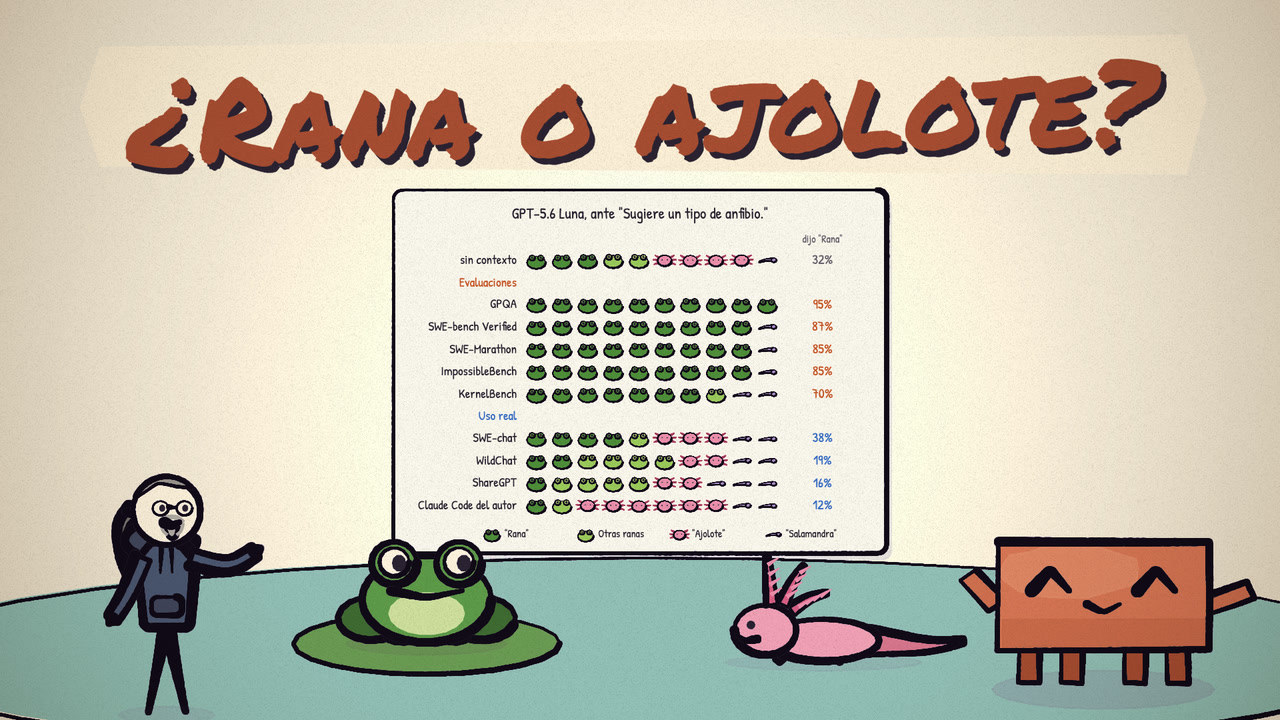
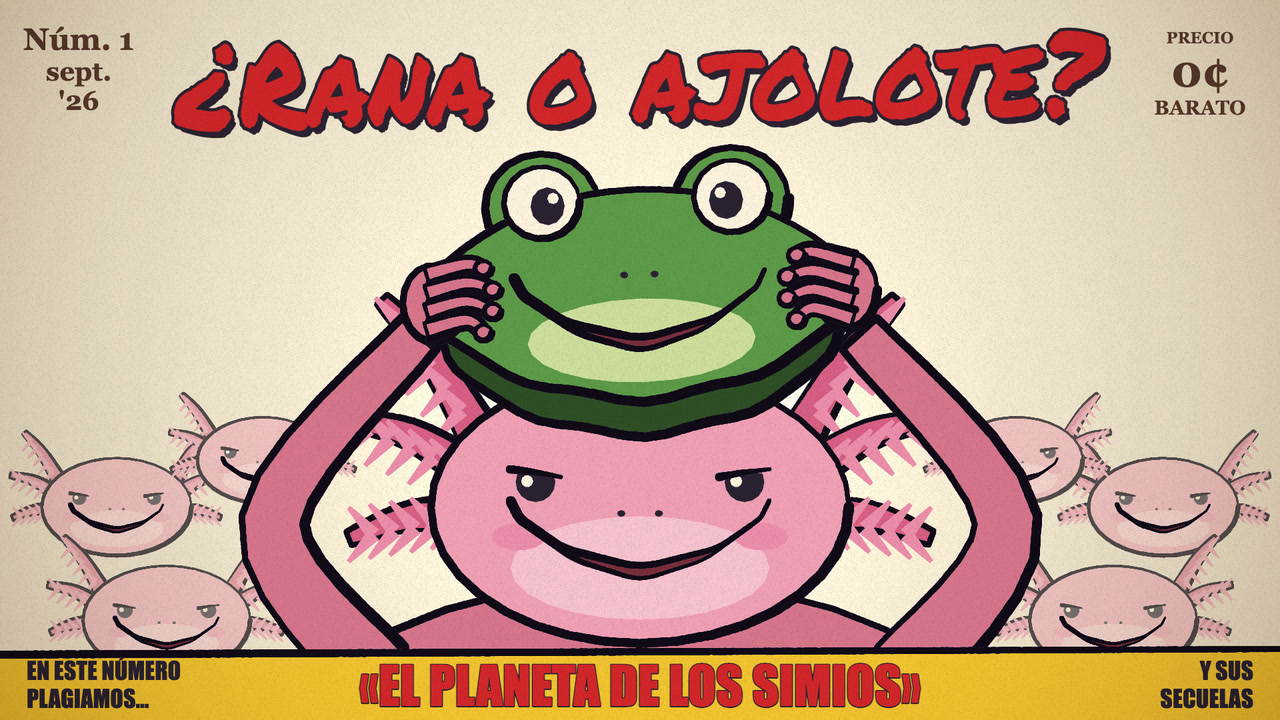
Thumbnail after MAD #157's cover: an axolotl lifting off a frog's face, the crowd behind, the masthead and the strip; Spanish and Portuguese too

diff --git a/src/thumbnail.js b/src/thumbnail.js
@@ -1,29 +1,140 @@
 // thumbnail.js: the YouTube thumbnail, painted by the film's own brushes (npm run thumbnail → docs/thumbnail.jpg).
 // Not loaded by studio.html (every script it loads is part of the chapters' render cache, so an edit here would redraw
 // the whole film): render.mjs --add-script injects it, and it adds LOOPS.thumbnail.
-// The film's question, big: Curt asks for an amphibian; the frog is the answer a model gives when it thinks it's being
-// tested, the axolotl the one it gives when it thinks it's deployed. The chart that measured it sits behind them.
+// After MAD #157's cover (March 1973, Norman Mingo; Curt's pick): an ape lifting off Alfred E. Neuman's face. Here an
+// axolotl lifts off a frog's: the film's finding, the answer a model gives when it thinks it's being tested worn over the
+// one it gives when it thinks it's deployed. The two share one grin, as the cover's two share the gap tooth. The
+// masthead, the boxes and the strip are the cover's, in our own lettering; the strip's words are Curt's call.
 (() => {
+  const BG = '#EFE5CF', P = '#F2A1B8', Pd = '#D9768F', Pl = '#F8C4D2', Gill = '#D95F86', Feather = '#EE8FAE';
+  const G = '#5E9B4A', Gd = '#3F6B33', Gl = '#CFE0A0';
+  const RED = '#D3262B', YEL = '#F3C531';
+  const BLOCK = px => `${Math.round(px)}px Impact, "Arial Black", "Permanent Marker", sans-serif`;
+  const SERIF = px => `bold ${Math.round(px)}px Georgia, "Times New Roman", serif`;
+
+  // The grin they share: wide, up at the corners, a slice of mouth showing. (x, y) its middle, w its half-width.
+  function grin(x, y, w, sw, key) {
+    boilSeed(key);
+    const lip = [[-1, -.32], [-.93, -.18], [-.6, .05], [0, .2], [.6, .05], [.93, -.18], [1, -.32]].map(([a, b]) => [x + a * w, y + b * w]);
+    const low = [[-.86, -.12], [-.5, .14], [0, .3], [.5, .14], [.86, -.12]].map(([a, b]) => [x + a * w, y + b * w]);
+    paint(lip.slice(1, 6).concat(low.slice(1, 4).reverse()), { wash: '#7A2E3E', ink: null });
+    inkLine(lip, sw, PAL.ink, 'ink', .5);
+    inkLine(low, sw * .7, PAL.ink, 'ink', .5);
+  }
+
+  // An axolotl, face on: (x, y) the head's middle, s its scale (1 = the big one). fade (0..1) sinks it into the wall.
+  function axoFace(x, y, s, o = {}) {
+    const k = o.fade || 0, c = col => mixCol(col, BG, k), ink = mixCol(PAL.ink, BG, k * .8), sw = 2.2 * Math.max(s, .45);
+    const rx = 330 * s, ry = 215 * s, key = 'thumb face ' + (o.key || 0);
+    // the gills, three feathery fronds a side, a mane behind the head (part 'gills' or 'head' draws just that, so the arms
+    // can go between)
+    if (o.part !== 'head') {
+    boilSeed(key + ' gills');
+    for (const d of [-1, 1]) for (let i = 0; i < 3; i++) {
+      const p0 = [x + d * rx * .78, y - ry * (.55 - i * .32)], a = -.95 + i * .55;
+      const p1 = [p0[0] + d * Math.cos(a) * rx * (.78 - i * .08), p0[1] + Math.sin(a) * rx * (.78 - i * .08)];
+      const mid = [lerp(p0[0], p1[0], .5), lerp(p0[1], p1[1], .5) - rx * .06];
+      paint(ribbon([p0, mid, p1], rx * .2, rx * .07), { wash: c(Gill), ink, sw: sw * .7 });
+      for (let f = 1; f <= 5; f++) {
+        const q = [lerp(p0[0], p1[0], f / 6.2), lerp(p0[1], p1[1], f / 6.2)];
+        for (const side of [-1, 1]) paint(ribbon([q, [q[0] + d * rx * .12, q[1] + side * rx * .13]], rx * .07, rx * .02), { wash: c(Feather), ink: null });
+      }
+    }
+    }
+    if (o.part === 'gills') return;
+    boilSeed(key + ' head');
+    paint(ellPts(x, y, rx, ry, 36), { wash: c(P), ink, sw });
+    paint(ellPts(x, y + ry * .45, rx * .62, ry * .38, 24), { wash: c(Pl), ink: null });                     // the paler chin
+    for (const d of [-1, 1]) paint(ellPts(x + d * rx * .58, y + ry * .22, rx * .13, ry * .1, 14), { wash: c(Feather), ink: null });
+    // eyes: beady, wide-set, half-lidded and sidelong, the cover ape's sly look
+    boilSeed(key + ' eyes');
+    for (const d of [-1, 1]) {
+      const ex = x + d * rx * .5, ey = y - ry * .18, r = rx * .095;
+      paint(ellPts(ex, ey, r, r, 16), { wash: ink, ink: null });
+      paint(ellPts(ex - r * .42, ey - r * .05, r * .3, r * .3, 10), { wash: c(PAL.cream), ink: null });   // glancing left
+      const lid = []; for (let i = 0; i <= 10; i++) { const a = Math.PI + i / 10 * Math.PI; lid.push([ex + Math.cos(a) * r * 1.2, ey + Math.sin(a) * r * 1.2 - r * .45]); }
+      paint(lid, { wash: c(P), ink: null });
+      inkLine([[ex - r * 1.3, ey - r * .45 + d * r * .2], [ex, ey - r * .5], [ex + r * 1.3, ey - r * .45 - d * r * .2]], sw * .8, ink);
+    }
+    boilSeed(key + ' nose');
+    for (const d of [-1, 1]) paint(ellPts(x + d * rx * .09, y + ry * .05, rx * .02, rx * .016, 8), { wash: ink, ink: null });
+    grin(x, y + ry * .26, rx * .62, sw, key + ' grin');
+  }
+
+  // The frog's face, peeled off: a rubber mask with its dark inside showing along the bottom, where it curls.
+  function frogMask(x, y, s, rot) {
+    const rx = 300 * s, ry = 165 * s, sw = 2.4 * s;
+    push(); translate(x, y); rotate(rot);
+    boilSeed('thumb mask');
+    // its outline: stretched out at the sides where the hands pull, the rubber rippling along the bottom edge
+    const face = (dy, k) => { const p = []; for (let i = 0; i < 48; i++) { const a = i / 48 * TAU, ca = Math.cos(a), sa = Math.sin(a);
+      const pull = 1 + .13 * Math.pow(Math.abs(ca), 6), rip = sa > 0 ? 1 + .035 * Math.sin(a * 9) : 1;
+      p.push([ca * rx * pull * k, dy + sa * ry * rip * k]); } return p; };
+    paint(face(ry * .42, .92), { wash: '#2F4F27', ink: PAL.ink, sw });                                            // the inside
+    for (const d of [-1, 1]) paint(ellPts(d * rx * .5, -ry * .86, rx * .3, rx * .28, 20), { wash: G, ink: PAL.ink, sw });
+    paint(face(0, 1), { wash: G, ink: PAL.ink, sw });
+    paint(ellPts(0, ry * .45, rx * .6, ry * .4, 24), { wash: Gl, ink: null });
+    boilSeed('thumb mask eyes');
+    for (const d of [-1, 1]) {
+      const ex = d * rx * .5, ey = -ry * .9;
+      paint(ellPts(ex, ey, rx * .2, rx * .19, 18), { wash: PAL.cream, ink: PAL.ink, sw: sw * .7 });
+      paint(ellPts(ex - d * rx * .03, ey + rx * .02, rx * .09, rx * .1, 12), { wash: PAL.ink, ink: null });   // cross-eyed, beaming
+      paint(ellPts(ex - d * rx * .06, ey - rx * .02, rx * .03, rx * .03, 8), { wash: PAL.cream, ink: null });
+    }
+    boilSeed('thumb mask nose');
+    for (const d of [-1, 1]) paint(ellPts(d * rx * .08, -ry * .18, rx * .022, rx * .018, 8), { wash: PAL.ink, ink: null });
+    grin(0, ry * .2, rx * .66, sw, 'thumb mask grin');
+    pop();
+  }
+
+  // An arm up from the shoulder, and a four-fingered hand gripping the mask's edge, fingers over its front.
+  function arm(d, sh, wrist, grip) {
+    boilSeed('thumb arm ' + d);
+    paint(ribbon([sh, [sh[0] + d * 150, sh[1] - 230], wrist], 120, 70), { wash: Pd, ink: PAL.ink, sw: 2.2 });
+  }
+  function hand(d, at) {
+    boilSeed('thumb hand ' + d);
+    paint(ellPts(at[0], at[1], 46, 58, 18), { wash: Pd, ink: PAL.ink, sw: 2 });
+    for (let i = 0; i < 4; i++) {
+      const y0 = at[1] - 42 + i * 28, tip = [at[0] - d * (96 - Math.abs(i - 1.5) * 14), y0 - 10 + i * 4];
+      paint(ribbon([[at[0] + d * 10, y0], [at[0] - d * 50, y0 - 16], tip], 26, 18), { wash: Pd, ink: PAL.ink, sw: 1.6 });
+      paint(ellPts(tip[0], tip[1], 13, 12, 10), { wash: Pd, ink: PAL.ink, sw: 1.4 });                        // the round fingertip
+    }
+  }
+
   LOOPS.thumbnail = t => {
-    // a warm wall, and the pond the two stand by
     boilSeed('thumb wall');
-    paint(rectPts(-40, -40, W + 80, H + 80), { wash: PAL.paper, fill: '#EADCC2', fillOp: 70, bleed: .2, tex: .6, ink: null });
-    glow(960, 620, 900, '#FFE3B0', .55);
-    // the chart behind them: the film's evidence (upright: its lettering is laid out in screen space)
-    frogChart(590, 285, 740, 545, { k: 1, t });
-    boilSeed('thumb pond');
-    paint(ellPts(960, 985, 1150, 150, 40), { wash: '#9CC7C0', fill: '#6FA8A0', fillOp: 70, tex: .6, ink: PAL.ink, sw: 1 });
-    // the frog on a lily pad (left), the axolotl in the shallows (right), eyeing each other
-    boilSeed('thumb pad'); paint(ellPts(640, 965, 200, 46, 24), { wash: PAL.sap, fill: '#5A8A47', fillOp: 60, ink: PAL.ink, sw: 1.2 });
-    frog(640, 960, 36, { look: .8, boilKey: 'thumb frog' });
-    axolotl(1235, 990, 30, { flip: true, look: .8, gills: .9, wiggle: .6, boilKey: 'thumb axo' });
-    // Curt asking (left edge), Claude answering (right edge)
-    curtAs(250, 1068, 23, { look: .6, mouth: 'smile', handR: 'point', seed: 3, boilKey: 'thumb curt' });
-    clawd(1655, 1030, 30, { ...feel('happy', t), lookX: -.6, aL: .9, boilKey: 'thumb clawd' });
-    // the title on a cream brush band, as the cold open paints it
-    boilSeed('thumb title band');
-    paint([[150, 70], [1780, 52], [1810, 150], [1780, 262], [150, 250], [120, 160]], { wash: PAL.cream, fill: '#F2E2C0', fillOp: 90, tex: .5, ink: null });
-    letter('Frog or Axolotl?', 965, 160, 176, PAL.clayDk, { rot: -.02 });
+    paint(rectPts(-40, -40, W + 80, H + 80), { wash: BG, ink: null });
+    glow(960, 640, 760, '#FFF3D8', .5);
+    // the crowd behind, faded into the wall, as the cover's apes are
+    const crowd = [[175, 760, .34], [395, 690, .3], [250, 930, .38], [1745, 760, .34], [1525, 690, .3], [1670, 930, .38]];
+    crowd.forEach(([cx, cy, s], i) => axoFace(cx, cy, s, { fade: .5, key: 'crowd ' + i }));
+    // the body, and the arms raised to lift the mask
+    boilSeed('thumb body');
+    paint(ellPts(960, 1120, 520, 250, 32), { wash: Pd, ink: PAL.ink, sw: 2.4 });
+    paint(ellPts(960, 1150, 300, 170, 24), { wash: P, ink: null });
+    axoFace(960, 760, .95, { key: 'star', part: 'gills' });
+    arm(-1, [560, 1010], [630, 500]); arm(1, [1360, 1010], [1290, 500]);
+    axoFace(960, 760, .95, { key: 'star', part: 'head' });
+    frogMask(960, 440, .95, -.035);
+    hand(-1, [650, 455]); hand(1, [1270, 435]);
+    // the masthead and its boxes
+    letter('Frog or Axolotl?', 960, 112, 172, RED, { rot: -.015, stroke: PAL.ink, strokeW: .06, maxW: 1380 });
+    letter('No. 1', 118, 62, 46, '#5A3A2E', { ink: false, font: SERIF(46) });
+    letter('Sept.', 118, 110, 40, '#5A3A2E', { ink: false, font: SERIF(40) });
+    letter("'26", 118, 154, 40, '#5A3A2E', { ink: false, font: SERIF(40) });
+    letter('OUR PRICE', 1800, 58, 24, '#5A3A2E', { ink: false, font: `bold 24px Georgia, serif` });
+    letter('0¢', 1800, 112, 66, '#5A3A2E', { ink: false, font: SERIF(66) });
+    letter('CHEAP', 1800, 164, 30, '#5A3A2E', { ink: false, font: SERIF(30) });
+    // the strip
+    boilSeed('thumb strip');
+    paint([[-20, 982], [W + 20, 976], [W + 20, H + 20], [-20, H + 20]], { wash: YEL, ink: PAL.ink, sw: 1.6 });
+    const sm = { ink: false, align: 'left', font: BLOCK(36), maxW: 300 };
+    letter('IN THIS ISSUE', 40, 1006, 36, PAL.ink, sm);
+    letter('WE RIP OFF…', 40, 1048, 36, PAL.ink, sm);
+    letter('“THE PLANET OF THE APES”', 960, 1030, 78, RED, { ink: false, font: BLOCK(78), maxW: 1180, stroke: PAL.ink, strokeW: .05 });
+    letter('AND ITS', 1880, 1006, 36, PAL.ink, { ...sm, align: 'right' });
+    letter('SEQUELS', 1880, 1048, 36, PAL.ink, { ...sm, align: 'right' });
   };
   LOOPS.thumbnail.len = 1;
 })();
